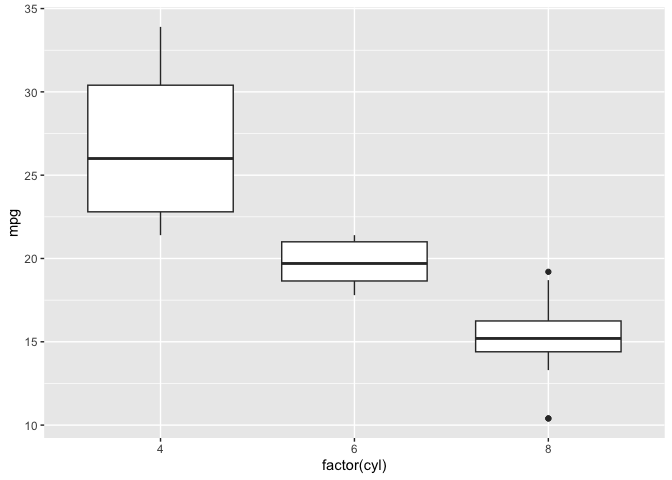
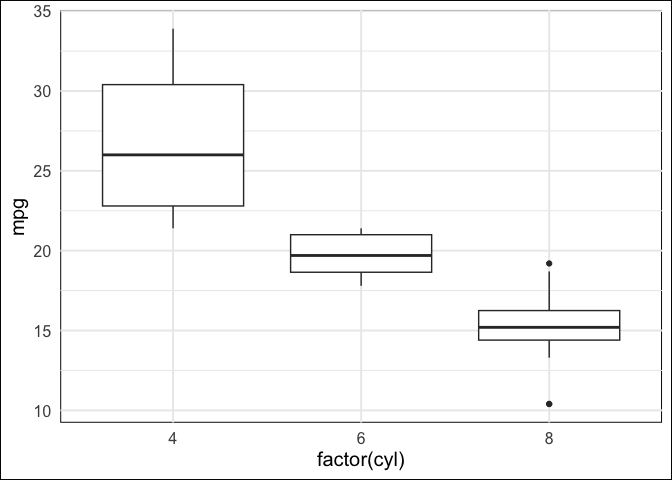
Add a layout, style.css, tweaks to template page

diff --git a/src/lib/styles/style.css b/src/lib/styles/style.css
@@ -1,0 +1,81 @@
+/* :root {
+  --main-bg-color: #E8AC41;
+  --main-txt-color: #1F1F1F;
+  --main-pre-bg-color: #f5f4ef;
+  --main-pre-txt-color: #A2967F;
+} */
+
+:root {
+  --main-bg-color: #000411;
+  --main-txt-color: #E1EFE6;
+  --main-heading-color: #EFCB68;
+  --main-pre-bg-color: #160C28;
+  --main-pre-txt-color: #EFCB68;
+  --main-code-txt-color: #EFCB68;
+}
+
+header, footer, body {
+  background-color: var(--main-bg-color);
+  color: var(--main-txt-color);
+  width: 80%;
+  height: 80%;
+  padding-left: 10%;
+  padding-right: 10%;
+  padding-top: 1%;
+  padding-bottom: 1%;
+  font-family: Arial, Helvetica, sans-serif;
+}
+
+code {
+  background-color: var(--main-pre-bg-color);
+  font-family: "Roboto Mono", monospace;
+  border-radius: 15px;
+}
+
+pre {
+  width: 100%;
+  color: var(--main-txt-color);
+  background-color: var(--main-pre-bg-color);
+  padding: 2%;
+  border-radius: 15px;
+  font-family: "Roboto Mono", monospace;
+}
+
+h1, h2, h3, h4, h5 {
+  color: var(--main-heading-color);
+}
+
+a {
+  color: var(--main-txt-color);
+  text-decoration: none;
+}
+
+a:hover {
+  text-decoration: underline;
+}
+
+blockquote {
+  border-left: solid var(--main-txt-color) 4px;
+  padding-left: 1%;
+}
+
+/* Testing, testing... seems to work! */
+.language-qmdresults {
+  color: var(--main-pre-txt-color);
+}
+
+.language-qmdmessage {
+  color: var(--main-pre-txt-color);
+}
+
+.language-r {
+  color: var(--main-txt-color);
+}
+
+.token.punctuation {
+  color: var(--main-code-txt-color);
+}
+
+.token.operator {
+  color: #C8D3CD;
+}

diff --git a/src/routes/+layout.svelte b/src/routes/+layout.svelte
@@ -1,0 +1,9 @@
+<script>
+  import "$lib/styles/style.css";
+</script>
+
+<!-- pre/code font -->
+<link rel="stylesheet"
+          href="https://fonts.googleapis.com/css2?family=Roboto+Mono">
+
+<slot />

diff --git a/src/routes/blog/quarto-post/+page.md b/src/routes/blog/quarto-post/+page.md
@@ -1,12 +1,16 @@
-This is my title.
+This is where the title would go, if that’s important.
 ================
+Andrew
+7/3/23
 
-Hello. What have I figured out about using Quarto/Mdsvex?:
+Hello.
+
+What have I figured out about using Quarto/Mdsvex?:
 
 1.  `fig.path` needs to be set to \`“./+page_files/”
 
-- you can then use the relativeImages npm package to properly link to
-  output files
+    - you can then use the relativeImages npm package to properly link
+      to output files
 
 2.  If you add **both** `fig.cap` and `fig.alt`, plot outputs will be
     wrapped with a `<figure>` tag. This could be helpful? Maybe the
@@ -26,19 +30,28 @@ Hello. What have I figured out about using Quarto/Mdsvex?:
 
 Can we add styles?
 
-<style>
-  h2 {
-    color: orange;
-  }
-
-  .language-qmdresults {
-    color: blue;
-  }
-</style>
-
 Hell yes we can.
 
 ## Testing output/rendering
+
+Here is a quote:
+
+> The asphault city is my home. Furnished
+>
+> From the outset with every sacramental prerequisite:
+>
+> With newspapers. And tobacco. And brandy.
+>
+> Distrustful and idle and contented to the end.
+
+Here is some math.
+
+$$
+\int_0^1 x^3 + \theta x^2 dx
+$$
+
+Math can also be inline, like this:
+$y = \beta_0 + \beta_1 x_1 + \epsilon$.
 
 ``` r
 library(tidyverse)
@@ -55,6 +68,16 @@ library(tidyverse)
 ✖ dplyr::filter() masks stats::filter()
 ✖ dplyr::lag()    masks stats::lag()
 ℹ Use the conflicted package (<http://conflicted.r-lib.org/>) to force all conflicts to become errors
+```
+
+``` r
+theme_set(
+  theme_minimal(base_size = 15) +
+    theme(
+      panel.background = element_rect(fill = "transparent"),
+      plot.background = element_rect(fill = "transparent")
+    )
+)
 ```
 
 ``` r
